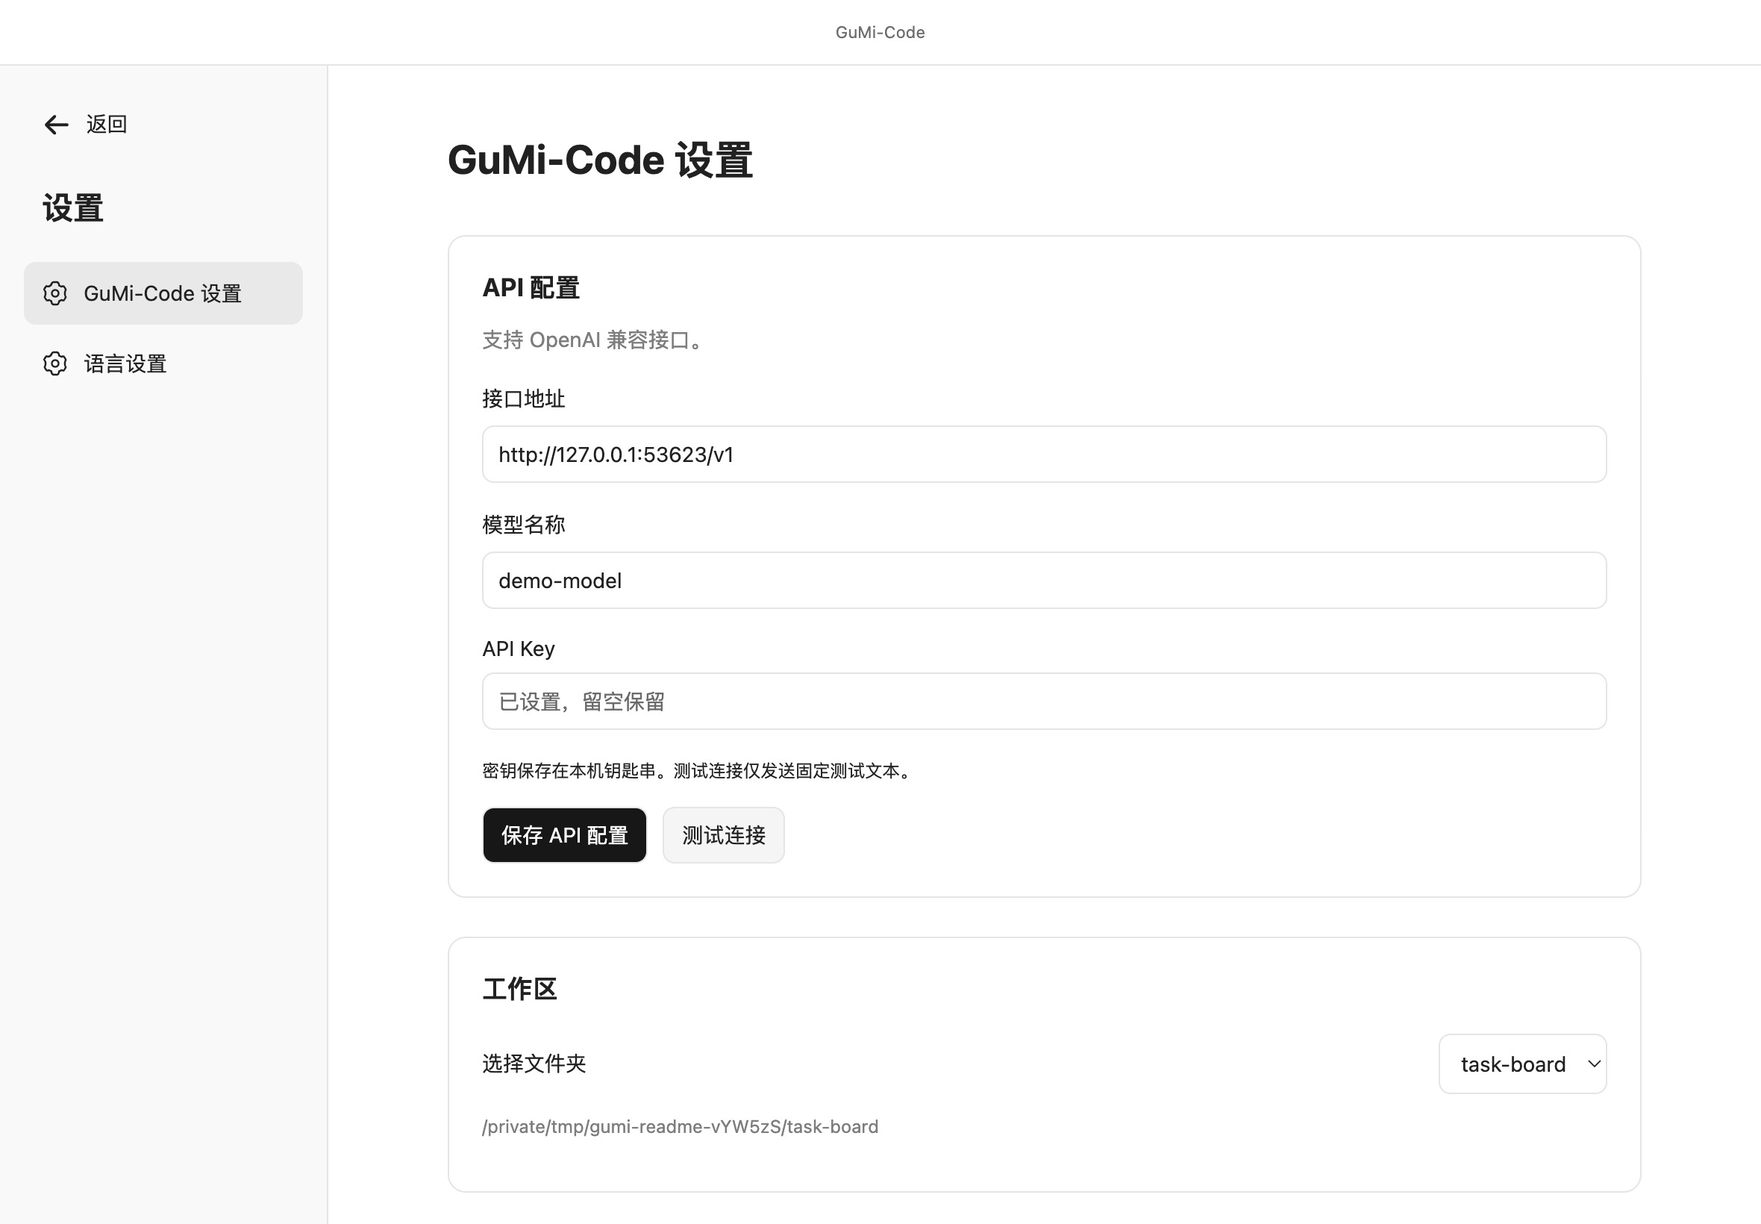
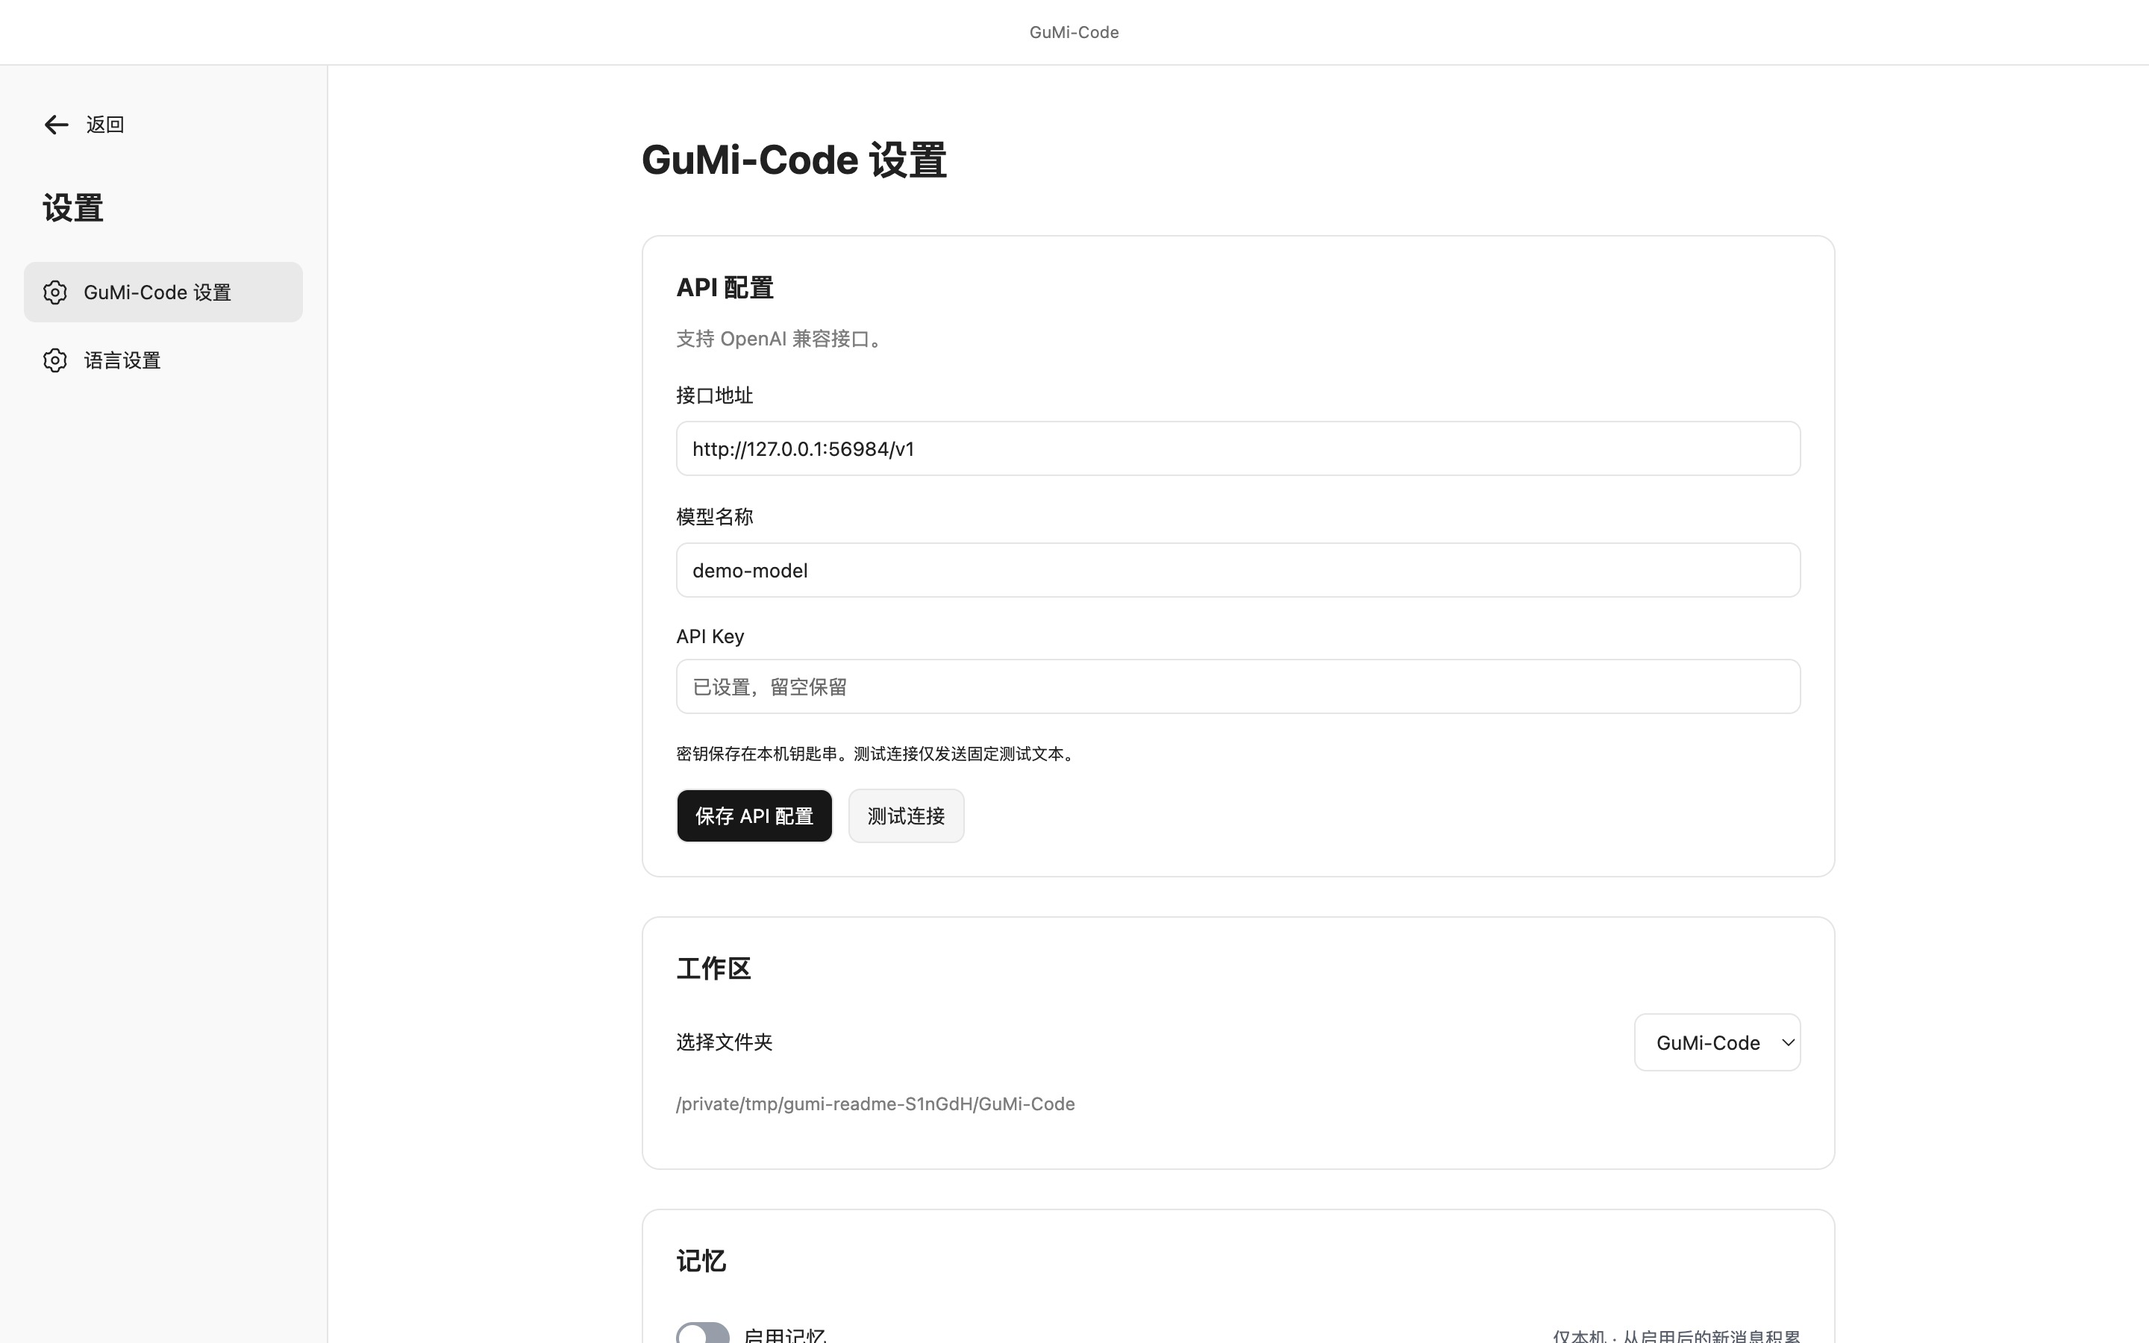
style: refine desktop proportions and transparent bird branding

diff --git a/desktop/src/gum-code.css b/desktop/src/gum-code.css
@@ -8,20 +8,20 @@
 .gum-code .gum-code-primary { background: #171717; color: #fff; }
 .gum-code .gum-code-primary:not(:disabled):hover { background: #333; }
 .gum-code label { font-weight: 600; font-size: 12px; }
-.gum-code-navigator { position:fixed; left:0; top:200px; bottom:82px; width:190px; padding:0 12px; display:flex; flex-direction:column; font-family:inherit; }
+.gum-code-navigator { position:fixed; left:0; top:200px; bottom:82px; width:var(--sidebar-width); padding:0 12px; display:flex; flex-direction:column; font-family:inherit; }
 .gum-code-nav-toolbar { display: flex; align-items: center; justify-content: space-between; padding-left: 10px; flex-shrink: 0; }
 .gum-code-nav-toolbar > span { font-size: 11px; color: var(--muted); }
 .gum-code-nav-toolbar > div { display: flex; }
 .gum-code .gum-code-nav-toolbar button { display: grid; place-items: center; padding: 0; width: 32px; min-height: 32px; background: transparent; color: #737b8c; }
 .gum-code-sessions { overflow-y: auto; min-height: 0; padding: 4px 0; scrollbar-width: thin; }
-.gum-code-group { margin: 0 0 6px; min-width: 0; }
-.gum-code-group summary { list-style: none; display: flex; align-items: center; gap: 7px; padding: 8px 6px; cursor: pointer; border-radius: 6px; font-size: 12px; }
+.gum-code-group { margin: 0 0 10px; min-width: 0; }
+.gum-code-group summary { list-style:none; display:flex; align-items:center; gap:10px; padding:7px 8px; min-height:34px; cursor:pointer; border-radius:8px; font-size:13px; color:#454545; }
 .gum-code-group summary::-webkit-details-marker { display: none; }
 .gum-code-group summary:hover { background: #f7f8fa; }
 .gum-code-group summary svg { flex-shrink: 0; color: #737b8c; }
-.gum-code-group[open] summary > svg:first-child { transform: rotate(90deg); }
+
 .gum-code-group summary span, .gum-code-session span { overflow: hidden; text-overflow: ellipsis; white-space: nowrap; }
-.gum-code .gum-code-session { display: block; width: calc(100% - 24px); margin: 2px 0 2px 24px; min-height: 32px; padding: 7px 10px; text-align: left; background: transparent; border-radius: 7px; }
+.gum-code .gum-code-session { display:block; width:100%; margin:2px 0; min-height:32px; padding:6px 12px 6px 34px; border:0; text-align:left; background:transparent; border-radius:11px; color:#454545; }
 .gum-code-session span { display: block; font-size: 12px; font-weight: 400; }
 .gum-code .gum-code-session[aria-current] { background: #eef1fc; color: #4f5fa4; box-shadow: none; }
 .gum-code .gum-code-nav-folder { display: flex; align-items: center; gap: 8px; width: 100%; min-height: 34px; margin-top: 4px; padding: 8px 10px; background: transparent; color: #737b8c; font-size: 12px; border-top: 1px solid #f0f1f4; border-radius: 0 0 8px 8px; flex-shrink: 0; }
@@ -30,14 +30,14 @@
 @media (pointer: coarse) { .gum-code .gum-code-navigator button, .gum-code-group summary { min-height: 44px; } }
 .gum-code-hint { color: var(--muted); font-size: 12px; line-height: 1.7; }
 .gum-code-conversation { display: flex; flex-direction: column; min-width: 0; min-height: 0; }
-.gum-code-header { display: flex; align-items: center; gap: 16px; padding: 16px 26px; border-bottom: 1px solid var(--line); }
+.gum-code-header { display: flex; align-items: center; gap: 16px; padding: 13px 28px; border-bottom: 1px solid var(--line); }
 .gum-code-header > div:not(.gum-code-navigator) { min-width: 0; flex: 1; }
-.gum-code-header h2 { font-size: 16px; overflow-wrap: anywhere; }
+.gum-code-header h2 { font-size: 14px; overflow-wrap: anywhere; }
 .gum-code-header p { font-size: 12px; color: var(--muted); margin-top: 7px; overflow-wrap: anywhere; }
 .gum-code-status { display: inline-flex; align-items: center; gap: 7px; white-space: nowrap; font-size: 11px; border-radius: 20px; padding: 5px 9px; background: #f1f3f8; color: var(--muted); }
 .gum-code-status.is-running, .gum-code-status.is-waiting { background: #edf0fb; color: #5260a9; }
-.gum-code-history { overflow-y: auto; flex: 1; min-height: 160px; padding: 28px 36px; overflow-anchor: none; overscroll-behavior: contain; scrollbar-gutter: stable; }
-.gum-code-history-content { max-width: 860px; margin: 0 auto; display: flow-root; }
+.gum-code-history { overflow-y: auto; flex: 1; min-height: 160px; padding: 24px 44px; overflow-anchor: none; overscroll-behavior: contain; scrollbar-gutter: stable; }
+.gum-code-history-content { max-width: 900px; margin: 0 auto; display: flow-root; }
 .gum-code-empty { max-width: 410px; margin: 50px auto; text-align: center; color: var(--muted); }
 .gum-code-empty svg { color: var(--accent); }
 .gum-code-empty h3 { color: #262626; font-size: 19px; margin: 16px 0 12px; }
@@ -46,7 +46,7 @@
 .gum-code-message.is-user { display: flex; flex-direction: column; align-items: flex-end; margin: 12px 0 28px; }
 .gum-code-message.is-assistant { color: #242424; }
 
-.gum-code-message > div { white-space: pre-wrap; overflow-wrap: anywhere; line-height: 1.8; font-size: 15px; }
+.gum-code-message > div { white-space: pre-wrap; overflow-wrap: anywhere; line-height: 1.8; font-size: 14px; }
 .gum-code-message.is-user > .gum-code-user-text { max-width: 82%; width: fit-content; padding: 12px 20px; border-radius: 22px; background: #171717; color: #fff; text-align: left; }
 .gum-code-error { padding: 12px 26px; background: #fff3f2; color: #a54343; font-size: 13px; overflow-wrap: anywhere; }
 .gum-code-activity { display: flex; align-items: center; gap: 8px; padding: 10px 26px; color: var(--muted); font-size: 12px; overflow-wrap: anywhere; max-height: 100px; overflow-y: auto; }
@@ -100,9 +100,9 @@
 .gum-code-markdown > :last-child { margin-bottom: 0; }
 .gum-code-markdown p, .gum-code-markdown ul, .gum-code-markdown ol, .gum-code-markdown blockquote, .gum-code-markdown pre, .gum-code-table { margin: 12px 0; }
 .gum-code-markdown h1, .gum-code-markdown h2, .gum-code-markdown h3, .gum-code-markdown h4, .gum-code-markdown h5, .gum-code-markdown h6 { color: #262626; font-weight: 650; line-height: 1.5; margin: 20px 0 10px; }
-.gum-code-markdown h1 { font-size: 23px; }
-.gum-code-markdown h2 { font-size: 20px; }
-.gum-code-markdown h3 { font-size: 17px; }
+.gum-code-markdown h1 { font-size: 18px; }
+.gum-code-markdown h2 { font-size: 18px; }
+.gum-code-markdown h3 { font-size: 16px; }
 .gum-code-markdown h4, .gum-code-markdown h5, .gum-code-markdown h6 { font-size: 14px; }
 .gum-code-markdown ul, .gum-code-markdown ol { padding-left: 24px; }
 .gum-code-markdown ul { list-style: disc; }
@@ -161,7 +161,7 @@
 .gum-code-skill-list > button > span:nth-child(2) { display: grid; gap: 3px; flex: 1; min-width: 0; }
 .gum-code-skill-list strong { color: #262626; font-size: 13px; font-weight: 600; overflow: hidden; text-overflow: ellipsis; white-space: nowrap; }
 .gum-code-skill-list small { color: #737373; font-size: 12px; line-height: 1.5; overflow: hidden; text-overflow: ellipsis; white-space: nowrap; }
-.gum-code-skill-mark { display: grid; place-items: center; flex: 0 0 29px; height: 29px; background: #fafafa; border: 1px solid #00000012; border-radius: 7px; color: #525252; font-size: 15px; }
+.gum-code-skill-mark { display: grid; place-items: center; flex: 0 0 29px; height: 29px; background: #fafafa; border: 1px solid #00000012; border-radius: 7px; color: #525252; font-size: 14px; }
 .gum-code-skill-list code { font-size: 11px; color: #737373; max-width: 120px; overflow: hidden; text-overflow: ellipsis; white-space: nowrap; }
 .gum-code-skill-empty { padding: 15px 10px; color: #737373; font-size: 13px; display: flex; align-items: center; justify-content: space-between; }
 .gum-code-skill-empty > button { min-height: 32px; padding: 4px 10px; font-size: 12px; }
@@ -253,7 +253,7 @@ dialog:has(.gum-memory-panel) .modal-head { margin-bottom: 16px; gap: 16px; }
 .gum-code-attachments > span > span { overflow: hidden; text-overflow: ellipsis; white-space: nowrap; }
 .gum-code-attachments button { display: grid; place-items: center; border: 0; padding: 3px; background: transparent; }
 
-.gum-code-title-input { width:100%; max-width:600px; font-size:16px; font-weight:600; padding:5px 8px; }
+.gum-code-title-input { width:100%; max-width:600px; font-size:14px; font-weight:600; padding:5px 8px; }
 .gum-code-header h2 { cursor:text; }
 .gum-code-run-status { margin:0 26px; flex-shrink:0; }
 .gum-code-run-status .gum-code-progress { margin:0; border:0; }
@@ -263,7 +263,19 @@ dialog:has(.gum-memory-panel) .modal-head { margin-bottom: 16px; gap: 16px; }
 .gum-code-attach-button svg { stroke-width:2.6; }
 @media(max-width:1000px){.gum-code-run-status{margin:0 18px}}
 
-.gum-code-sessions{flex:1}.gum-code-nav-toolbar>span{font-size:12px}.gum-code-group summary,.gum-code-session span{font-size:13px;line-height:1.5}.gum-code .gum-code-session[aria-current]{background:#f2f2f2;color:#242424}
-@media(max-width:800px){.gum-code-navigator{width:170px;top:184px}}
+.gum-code-sessions{flex:1}.gum-code-nav-toolbar>span{font-size:12px}.gum-code-group summary,.gum-code-session span{font-size:13px;line-height:1.5}.gum-code .gum-code-session[aria-current]{background:#eeeeef;color:#454545}
+@media(max-width:760px){.gum-code-navigator{top:176px}}
 
 .gum-code .gum-code-progress-toggle{border:0}
+
+.gum-code-composer{width:calc(100% - 88px);max-width:900px;align-self:center;margin:10px auto 18px;padding:10px 12px;border-radius:18px}
+.gum-code-composer textarea{font-size:14px;min-height:62px;max-height:160px}.gum-code-input-backdrop{font-size:14px}
+.gum-code-run-status{width:calc(100% - 88px);max-width:900px;align-self:center;margin:0 auto}.gum-code .gum-code-progress-toggle{font-size:12px;min-height:32px}.gum-code-progress-time{font-size:12px}
+.gum-code-message{margin-bottom:28px}.gum-code-message.is-user>.gum-code-user-text{padding:9px 14px;border-radius:18px}.gum-code-message>.gum-code-markdown{line-height:1.75}
+@media(max-width:1000px){.gum-code-history{padding:20px 24px}.gum-code-composer,.gum-code-run-status{width:calc(100% - 48px)}}
+@media(max-width:760px){.gum-code-history{padding:16px}.gum-code-composer,.gum-code-run-status{width:calc(100% - 32px)}.gum-code-send-controls select{max-width:140px}}
+
+.gum-code-message,.gum-code-markdown,.gum-code-user-text,.gum-code-composer textarea,.gum-code-input-backdrop{font-weight:400}
+.gum-code-markdown strong{font-weight:600}
+.gum-code-markdown h1,.gum-code-markdown h2,.gum-code-markdown h3{font-weight:600}
+.gum-code-markdown h4,.gum-code-markdown h5,.gum-code-markdown h6,.gum-code-tool-list strong{font-weight:400}

diff --git a/desktop/src/base.css b/desktop/src/base.css
@@ -1,6 +1,6 @@
-:root{font-family:-apple-system,BlinkMacSystemFont,"Segoe UI",sans-serif;color:#242424;background:#fff;--line:#e8e8e8;--muted:#888;--accent:#5260a9;font-size:14px}*{box-sizing:border-box}body{margin:0}h1,h2,h3,p{margin:0}button,input,select,textarea{font:inherit}button{cursor:pointer;border:1px solid var(--line);background:#f6f6f6;color:inherit;border-radius:8px;padding:8px 12px}button:disabled{cursor:default;opacity:.45}button:focus-visible,input:focus-visible,textarea:focus-visible,select:focus-visible{outline:2px solid #3982ff;outline-offset:2px}input,select,textarea{border:1px solid var(--line);border-radius:8px;padding:10px;background:#fff;color:inherit}fieldset{border:0;padding:0;margin:0}.field-label{display:flex;flex-direction:column;gap:8px;margin:18px 0}.action-row{display:flex;align-items:center;gap:10px;margin-top:16px}.primary{background:#171717;color:#fff}.icon-button{display:grid;place-items:center}.titlebar{height:44px;display:flex;justify-content:center;align-items:center;font-size:11px;color:#777;-webkit-app-region:drag;border-bottom:1px solid var(--line)}.navigation{position:fixed;top:44px;bottom:0;left:0;width:190px;padding:25px 12px;border-right:1px solid var(--line);display:flex;flex-direction:column;gap:12px}.brand{padding:0 12px 22px}.brand img{width:100px;height:44px;object-fit:contain}.navigation button{display:flex;align-items:center;gap:15px;border:0;background:transparent;padding:12px}.navigation button[aria-current]{font-weight:600;background:#f5f5f5}.navigation .settings-link{margin-top:auto}.content{margin-left:190px}.settings-route .content{margin-left:0}.settings-layout.settings-panel{height:calc(100svh - 44px);min-height:0;border:0;border-radius:0}.settings-detail{overflow:auto}.settings-card p{margin:12px 0}.settings-card h3{margin-bottom:12px}dialog{border:1px solid var(--line);border-radius:14px;width:min(720px,90vw);max-height:88vh;padding:24px;background:#fff}dialog::backdrop{background:#0004}.modal-head{display:flex;justify-content:space-between;align-items:center;margin-bottom:20px}.error-line,[role=alert]{color:#b42318}@media(max-width:800px){.navigation{width:80px;align-items:center}.navigation span{display:none}.brand{padding:0 0 10px}.brand img{width:52px}.content{margin-left:80px}}@media(prefers-reduced-motion:reduce){*,*::before,*::after{animation:none!important;transition:none!important;scroll-behavior:auto!important}}
+:root{font-family:-apple-system,BlinkMacSystemFont,"Segoe UI",sans-serif;color:#242424;background:#fff;--line:#e8e8e8;--muted:#888;--accent:#5260a9;font-size:13px;--sidebar-width:284px}*{box-sizing:border-box}body{margin:0}h1,h2,h3,p{margin:0}button,input,select,textarea{font:inherit}button{cursor:pointer;border:1px solid var(--line);background:#f6f6f6;color:inherit;border-radius:8px;padding:8px 12px}button:disabled{cursor:default;opacity:.45}button:focus-visible,input:focus-visible,textarea:focus-visible,select:focus-visible{outline:2px solid #3982ff;outline-offset:2px}input,select,textarea{border:1px solid var(--line);border-radius:8px;padding:10px;background:#fff;color:inherit}fieldset{border:0;padding:0;margin:0}.field-label{display:flex;flex-direction:column;gap:8px;margin:18px 0}.action-row{display:flex;align-items:center;gap:10px;margin-top:16px}.primary{background:#171717;color:#fff}.icon-button{display:grid;place-items:center}.titlebar{height:44px;display:flex;justify-content:center;align-items:center;font-size:11px;color:#777;-webkit-app-region:drag;border-bottom:1px solid var(--line)}.navigation{position:fixed;top:44px;bottom:0;left:0;width:var(--sidebar-width);padding:22px 12px;border-right:1px solid var(--line);display:flex;flex-direction:column;gap:12px}.brand{padding:0 12px 22px}.brand img{width:100px;height:44px;object-fit:contain}.navigation button{display:flex;align-items:center;gap:15px;border:0;background:transparent;padding:12px}.navigation button[aria-current]{font-weight:600;background:#f5f5f5}.navigation .settings-link{margin-top:auto}.content{margin-left:var(--sidebar-width)}.settings-route .content{margin-left:0}.settings-layout.settings-panel{height:calc(100svh - 44px);min-height:0;border:0;border-radius:0}.settings-detail{overflow:auto}.settings-card p{margin:12px 0}.settings-card h3{margin-bottom:12px}dialog{border:1px solid var(--line);border-radius:14px;width:min(720px,90vw);max-height:88vh;padding:24px;background:#fff}dialog::backdrop{background:#0004}.modal-head{display:flex;justify-content:space-between;align-items:center;margin-bottom:20px}.error-line,[role=alert]{color:#b42318}@media(prefers-reduced-motion:reduce){*,*::before,*::after{animation:none!important;transition:none!important;scroll-behavior:auto!important}}
 
-.brand img{width:72px;height:72px}.navigation{font-family:inherit}.navigation button{font-size:14px;font-weight:500;letter-spacing:0}.navigation .gum-code-nav-trigger{anchor-name:--gum-code-nav}@media(max-width:800px){.brand img{width:48px;height:48px}}
-
-.brand{display:flex;justify-content:center}.brand img{width:104px;height:104px}.navigation{align-items:stretch}.navigation .settings-link{font-weight:500}
-@media(max-width:800px){.navigation{width:170px;align-items:stretch}.navigation span{display:inline}.brand{padding-bottom:18px}.brand img{width:88px;height:88px}.content{margin-left:170px}.settings-route .content{margin-left:0}}
+.navigation{align-items:stretch;background:#fafafa;font-family:inherit}.brand{display:flex;justify-content:center;padding:0 12px 18px}.brand img{width:104px;height:104px}.navigation button{font-size:13px;font-weight:400}.navigation .settings-link{margin-top:auto}
+.sr-only{position:absolute;width:1px;height:1px;padding:0;margin:-1px;overflow:hidden;clip:rect(0,0,0,0);white-space:nowrap;border:0}
+@media(max-width:1000px){:root{--sidebar-width:240px}}
+@media(max-width:760px){:root{--sidebar-width:200px}.brand img{width:88px;height:88px}.brand{padding-bottom:14px}}

diff --git a/desktop/src/main.tsx b/desktop/src/main.tsx
@@ -18,7 +18,7 @@ function Shell({state,commit,error}:{state:State;commit:(change:(next:State)=>vo
  const {t}=useI18n(); const [settings,setSettings]=useState(false),[section,setSection]=useState<'code'|'language'>('code'),[generation,setGeneration]=useState(0);
  return <div className={`app ${settings?'settings-route':''}`}>
   <div className="titlebar">GuMi-Code</div>
-  {!settings&&<aside className="navigation"><div className="brand"><img src="./app-icon.png" alt="GuMi"/></div><button className="settings-link" aria-label={t('设置')} onClick={()=>setSettings(true)}><Icon name="settings" size={24}/><span>{t('设置')}</span></button></aside>}
+  {!settings&&<aside className="navigation"><div className="brand"><img src="./brand-bird.png" alt="GuMi"/></div><button className="settings-link" aria-label={t('设置')} onClick={()=>setSettings(true)}><Icon name="settings" size={24}/><span>{t('设置')}</span></button></aside>}
   <main className="content">
    {error&&<p role="alert">{error}</p>}
    <div hidden={settings}><GumCode key={generation} projects={[]} visible={!settings}/></div>

diff --git a/desktop/src/GumCode.tsx b/desktop/src/GumCode.tsx
@@ -230,7 +230,7 @@ export function GumCode({ projects, visible }: { projects: Project[]; visible: b
             </div></div>
             <div className="gum-code-sessions">
               {groups.map((group) => <details className="gum-code-group" key={group.path} open>
-                <summary title={group.path}><Icon name="arrow" size={11} /><Icon name="folder" size={16} /><span>{group.name}</span></summary>
+                <summary title={group.path}><Icon name="folder" size={16} /><span>{group.name}</span></summary>
                 {group.sessions.map((session) => <button type="button" key={session.id} className="gum-code-session" title={session.title || t('新会话', 'New conversation')} aria-current={session.id === state.selectedId ? "true" : undefined} disabled={locked} onClick={async () => {
                   if (!api) return;
                   await run(() => api.gumCodeSelect({ sessionId: session.id }));

diff --git a/README.md b/README.md
@@ -1,5 +1,5 @@
 <p align="center">
-  <img src="desktop/public/app-icon.png" width="100" alt="GuMi-Code logo" />
+  <img src="desktop/public/brand-bird.png" width="100" alt="GuMi-Code logo" />
 </p>
 
 <h1 align="center">GuMi-Code</h1>

diff --git a/README_en.md b/README_en.md
@@ -1,5 +1,5 @@
 <p align="center">
-  <img src="desktop/public/app-icon.png" width="100" alt="GuMi-Code logo" />
+  <img src="desktop/public/brand-bird.png" width="100" alt="GuMi-Code logo" />
 </p>
 
 <h1 align="center">GuMi-Code</h1>
